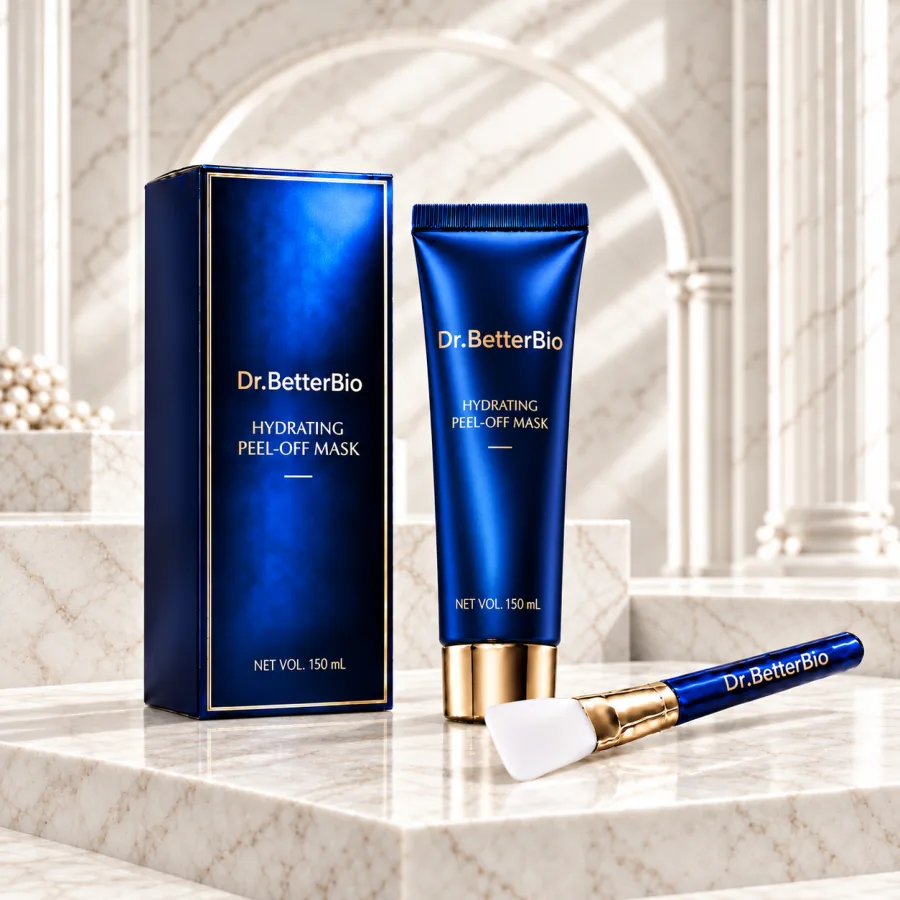
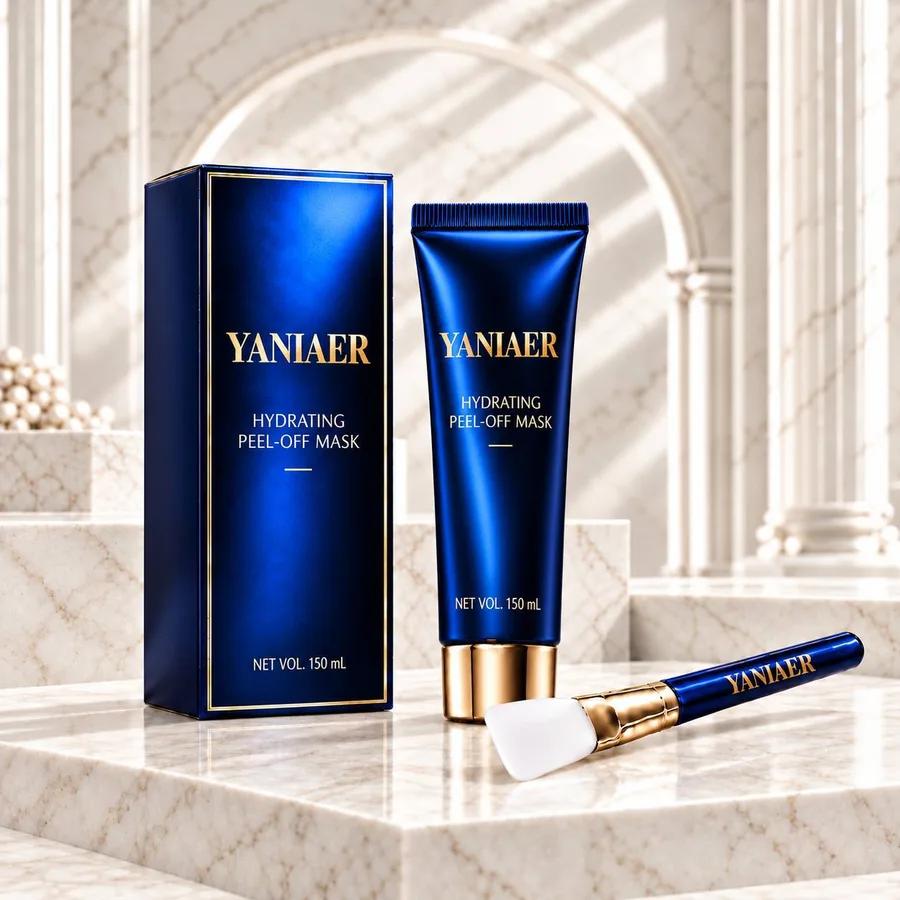
feat: rebrand site to YANIAER
Replace Dr.BetterBio branding with YANIAER, swap in the new product
photography, update the catalogue to the three-product line (25-sheet
mask, 60-patch eye patches at USD 20, peel-off mask) and drop the
Face Cream, Cleanser and Serum listings.

diff --git a/index.html b/index.html
@@ -3,10 +3,10 @@
 <head>
   <meta charset="utf-8">
   <meta name="viewport" content="width=device-width, initial-scale=1">
-  <title>Skincare Collection | Dr.BetterBio</title>
-  <meta name="description" content="Dr.BetterBio is Hong Kong-born skincare with an international outlook — sheet masks, eye patches, peel-off masks and more, crafted with care in every detail.">
-  <meta property="og:title" content="Skincare Collection | Dr.BetterBio">
-  <meta property="og:description" content="Hong Kong-born skincare. Quality in every detail, modern beauty for everyday rituals.">
+  <title>Luxury Skincare Collection | YANIAER</title>
+  <meta name="description" content="YANIAER brings Japanese clinic-grade luxury skincare home — crystal sheet masks, golden firming eye patches and a gentle peel-off mask for anti-ageing, brightening and clarifying care.">
+  <meta property="og:title" content="Luxury Skincare Collection | YANIAER">
+  <meta property="og:description" content="Crystal-infused care, luxuriously youthful. Japanese clinic-grade rituals, made for home.">
   <meta property="og:type" content="website">
   <meta property="og:image" content="assets/img/01-facial-sheet-mask-detail.webp">
   <link rel="stylesheet" href="assets/css/style.css">
@@ -32,7 +32,7 @@
           <svg width="20" height="20" viewBox="0 0 24 24" aria-hidden="true"><circle cx="10.5" cy="10.5" r="6.5" stroke="currentColor" stroke-width="1.6" fill="none"/><path d="m15.5 15.5 5 5" stroke="currentColor" stroke-width="1.6"/></svg>
         </button>
       </div>
-      <a class="wordmark" href="#top" aria-label="Dr.BetterBio home">Dr.<span>Better</span>Bio</a>
+      <a class="wordmark" href="#top" aria-label="YANIAER home">YANIAER</a>
       <div class="site-header__right">
         <span class="region">English · USD</span>
         <button class="icon-btn" type="button" aria-label="Account">
@@ -48,26 +48,23 @@
       <a href="#main" class="is-strong" data-nav-category="All" aria-current="page">Shop All</a>
       <a href="#main" data-nav-category="Masks">Masks</a>
       <a href="#main" data-nav-category="Eye Care">Eye Care</a>
-      <a href="#main" data-nav-category="Moisturizers">Moisturizers</a>
-      <a href="#main" data-nav-category="Cleansers">Cleansers</a>
-      <a href="#main" data-nav-category="Serums">Serums</a>
       <a href="#story" class="is-accent">Our Story</a>
       <a href="#faq">FAQ</a>
     </nav>
   </header>
 
   <div class="promo-bar" role="note">
-    Hong Kong-born skincare · Face Cream, Gentle Facial Cleanser &amp; Facial Serum — coming soon
+    Japanese clinic-grade luxury skincare · Crystal-infused. Luxuriously youthful.
   </div>
 
   <section class="hero" aria-labelledby="hero-title">
     <div class="hero__media">
-      <img src="assets/img/01-facial-sheet-mask-detail.webp" alt="Dr.BetterBio Facial Sheet Mask box and sachets on marble" width="900" height="900">
+      <img src="assets/img/01-facial-sheet-mask-detail.webp" alt="YANIAER Facial Sheet Mask box, sachets and crystal sheet on marble" width="900" height="900">
     </div>
     <div class="hero__copy">
-      <p class="eyebrow">Dr.BetterBio · Hong Kong</p>
-      <h1 id="hero-title">Quality in every detail.</h1>
-      <p>Modern beauty, made for everyday rituals. Discover our signature masks and eye care, wrapped in sapphire and champagne gold.</p>
+      <p class="eyebrow">YANIAER · Clinic-grade luxury</p>
+      <h1 id="hero-title">Crystal-infused. Luxuriously youthful.</h1>
+      <p>The anti-ageing, brightening and clarifying care of the Japanese treatment salon, reimagined for home. Discover our signature masks and eye care, wrapped in sapphire and champagne gold.</p>
       <a class="btn btn--navy" href="#main">Shop the collection</a>
     </div>
   </section>
@@ -76,7 +73,7 @@
     <div class="routine-cta__inner">
       <div>
         <p class="eyebrow">Not sure where to start?</p>
-        <p class="routine-cta__text">Try the mask ritual — Facial Sheet Mask, Eye Patches and Hydrating Peel-Off Mask.</p>
+        <p class="routine-cta__text">Try the full ritual — clarify with the Hydrating Peel-Off Mask, then treat with the Facial Sheet Mask and Eye Patches.</p>
       </div>
       <a class="btn btn--navy" href="#main" data-nav-category="Masks">Shop masks</a>
     </div>
@@ -120,23 +117,23 @@
 
     <section class="collection-info" aria-labelledby="collection-title">
       <div class="intro-box">
-        <h2 id="collection-title">Dr.BetterBio Skincare</h2>
-        <p class="intro-box__sub">Hong Kong-born skincare with an international outlook.</p>
-        <p>We explore the many ways people care for their skin, and answer with products made with attention to quality and detail — bringing modern aesthetics into everyday care for a refined, joyful experience for your skin and your day.</p>
+        <h2 id="collection-title">YANIAER Skincare</h2>
+        <p class="intro-box__sub">Japanese clinic-grade luxury, made for home.</p>
+        <p>YANIAER carries forward the aesthetics of Japanese clinic-grade luxury care. We hold ourselves to high-end skincare standards, select skin-friendly active extracts, and pair them with dedicated mask materials and custom formulations — turning treatments once reserved for the salon into a luxurious experience you can enjoy at home.</p>
       </div>
 
       <div class="category-cards">
         <article class="category-card">
           <h3>Mask Rituals</h3>
-          <p>Facial Sheet Mask and Hydrating Peel-Off Mask — two ways to pause, treat and refresh.</p>
+          <p>Facial Sheet Mask to brighten and firm, Hydrating Peel-Off Mask to clarify pores.</p>
         </article>
         <article class="category-card">
           <h3>Eye Care</h3>
-          <p>Golden Eye Patches for a quick under-eye refresh, 40 patches per jar.</p>
+          <p>Golden firming Eye Patches for fine lines and dullness around the eyes, 60 patches per jar.</p>
         </article>
         <article class="category-card">
-          <h3>Daily Essentials</h3>
-          <p>Face Cream, Gentle Facial Cleanser and Facial Serum — arriving soon to complete the routine.</p>
+          <h3>Clinic-Grade at Home</h3>
+          <p>Dedicated mask materials and custom formulations bring salon-level care into your own ritual.</p>
         </article>
         <article class="category-card">
           <h3>Signature Design</h3>
@@ -147,24 +144,20 @@
       <div class="faq" id="faq">
         <h2>Frequently Asked Questions</h2>
         <details>
-          <summary>Which products are available now?</summary>
-          <p>Facial Sheet Mask, Eye Patches and Hydrating Peel-Off Mask are available to order today. Face Cream, Gentle Facial Cleanser and Facial Serum are coming soon.</p>
+          <summary>Which products are available?</summary>
+          <p>Facial Sheet Mask (25 sheets), Eye Patches (60 patches) and Hydrating Peel-Off Mask (150 mL) are all available to order today.</p>
         </details>
         <details>
           <summary>How do I use the Facial Sheet Mask?</summary>
-          <p>After cleansing, unfold the sheet and smooth it over your face. Relax for 10–15 minutes, remove, then gently pat any remaining essence into your skin.</p>
+          <p>After cleansing, unfold the crystal sheet and smooth it over your face so it sits closely against the skin. Leave on for 15–20 minutes, remove, then gently pat in any remaining essence. Each sheet is for single use.</p>
         </details>
         <details>
           <summary>How do I use the Hydrating Peel-Off Mask?</summary>
-          <p>Apply an even layer to clean, dry skin with a mask brush, avoiding the eyes, brows and lips. Once it has set, peel it away from the edges and rinse off any residue.</p>
+          <p>Apply an even layer to clean, dry skin, avoiding the eyes, brows and lips. Wait for it to set into a film, then gently peel it away to lift blackheads and dull surface build-up. Follow with the rest of your routine — skin is ready to absorb it.</p>
         </details>
         <details>
           <summary>How do I use the Eye Patches?</summary>
-          <p>Place one patch under each eye on clean skin, leave on for 15–20 minutes, then remove. Ideal in the morning or before an evening out.</p>
-        </details>
-        <details>
-          <summary>When will the new products launch?</summary>
-          <p>Face Cream, Gentle Facial Cleanser and Facial Serum are on their way. Sign up to our newsletter below to be the first to know.</p>
+          <p>Take one patch for each eye from the jar and place it on clean skin around the eye area. Use daily as part of your routine to help smooth fine lines and keep the eye area looking firm and youthful.</p>
         </details>
         <details>
           <summary>Are the products suitable for sensitive skin?</summary>
@@ -173,21 +166,21 @@
       </div>
 
       <div class="trust-box">
-        <p><strong>Born in Hong Kong:</strong> a skincare brand shaped by a city that sits between East and West.</p>
-        <p><strong>Quality in every detail:</strong> from formula to finish, every product is made with care.</p>
-        <p><strong>Modern beauty, everyday rituals:</strong> design that makes daily care feel refined and joyful.</p>
+        <p><strong>Japanese clinic-grade aesthetics:</strong> a luxury care philosophy shaped by the treatment salon.</p>
+        <p><strong>Skin-friendly active extracts:</strong> carefully selected and held to high-end skincare standards.</p>
+        <p><strong>Luxury, made for home:</strong> anti-ageing, brightening and clarifying care in your own ritual.</p>
       </div>
     </section>
 
     <section class="story" id="story" aria-labelledby="story-title">
       <div class="story__media">
-        <img src="assets/img/04-face-cream-detail.webp" alt="Dr.BetterBio Face Cream jar and box in a marble colonnade" width="900" height="900" loading="lazy" decoding="async">
+        <img src="assets/img/02-eye-patches-detail.webp" alt="YANIAER Eye Patches jar and box with golden patches in a marble colonnade" width="900" height="900" loading="lazy" decoding="async">
       </div>
       <div class="story__copy">
         <p class="eyebrow">Our Story</p>
-        <h2 id="story-title">From Hong Kong, with an international outlook</h2>
-        <p>Dr.BetterBio was founded in Hong Kong as a beauty and skincare brand that looks outward — exploring the diverse needs of skin around the world.</p>
-        <p>We believe care is in the details. That is why we focus on product quality and finish, and why we bring modern aesthetics into everyday rituals: so that looking after your skin feels refined, and a little joyful, every single day.</p>
+        <h2 id="story-title">Clinic-grade luxury, brought home</h2>
+        <p>YANIAER is built on the aesthetics of Japanese clinic-grade luxury care. Our belief is simple: crystal-infused care, for luxuriously youthful skin.</p>
+        <p>We select skin-friendly active extracts and pair them with dedicated mask materials and custom formulations, so that the anti-ageing, brightening and clarifying treatments of the salon become a luxurious ritual you can enjoy at home — for anyone who seeks a higher standard of skincare.</p>
       </div>
     </section>
 
@@ -196,17 +189,17 @@
       <div class="reviews__track">
         <figure class="review">
           <div class="stars" aria-label="5 out of 5 stars">★★★★★</div>
-          <blockquote>The sheet mask is so generously soaked — my skin looks fresh and dewy afterwards.</blockquote>
+          <blockquote>The crystal sheet sits so closely on my face — my skin looks brighter straight away.</blockquote>
           <figcaption>Facial Sheet Mask</figcaption>
         </figure>
         <figure class="review">
           <div class="stars" aria-label="5 out of 5 stars">★★★★★</div>
-          <blockquote>My five-minute morning reset. The golden patches feel cooling and stay put.</blockquote>
+          <blockquote>Part of my daily routine now. The golden patches feel lovely and stay put.</blockquote>
           <figcaption>Eye Patches</figcaption>
         </figure>
         <figure class="review">
           <div class="stars" aria-label="5 out of 5 stars">★★★★★</div>
-          <blockquote>Peeling it off is oddly satisfying, and my skin feels soft and smooth after.</blockquote>
+          <blockquote>Peeling it off is oddly satisfying, and my skin feels so clear and fresh after.</blockquote>
           <figcaption>Hydrating Peel-Off Mask</figcaption>
         </figure>
         <figure class="review">
@@ -221,8 +214,8 @@
   <footer class="site-footer" id="contact">
     <div class="site-footer__top">
       <div class="footer-brand">
-        <a class="wordmark wordmark--light" href="#top">Dr.<span>Better</span>Bio</a>
-        <p>Hong Kong-born skincare. Quality in every detail.</p>
+        <a class="wordmark wordmark--light" href="#top">YANIAER</a>
+        <p>Japanese clinic-grade luxury skincare. Crystal-infused, luxuriously youthful.</p>
         <form class="newsletter" data-newsletter novalidate>
           <label for="nl-email">Be the first to know about new launches</label>
           <div class="newsletter__row">
@@ -246,8 +239,7 @@
       </nav>
     </div>
     <div class="site-footer__bottom">
-      <p class="legal">© <span data-year></span> Dr.BetterBio. All rights reserved.</p>
-      <p class="legal">Hong Kong</p>
+      <p class="legal">© <span data-year></span> YANIAER. All rights reserved.</p>
     </div>
   </footer>
 

diff --git a/assets/css/style.css b/assets/css/style.css
@@ -79,11 +79,10 @@ button, input, select { font: inherit; color: inherit; }
 }
 
 .wordmark {
-  font-family: var(--sans); font-size: 28px; letter-spacing: -.3px;
+  font-family: var(--serif); font-size: 26px; letter-spacing: .12em; text-transform: uppercase;
   text-decoration: none; color: var(--navy); white-space: nowrap;
 }
-.wordmark span { color: var(--gold); }
-.wordmark--light { color: var(--white); }
+.wordmark--light { color: var(--gold-soft); }
 
 .region {
   display: none; background: none; border: 0; color: var(--muted);
@@ -370,8 +369,8 @@ main { max-width: var(--max); margin: 0 auto; padding: 0 var(--gutter); }
 @media (min-width: 1024px) {
   :root { --gutter: 48px; }
   .site-header__bar { padding-top: 28px; padding-bottom: 24px; }
-  .wordmark { font-size: 40px; }
-  .wordmark--light { font-size: 32px; }
+  .wordmark { font-size: 36px; }
+  .wordmark--light { font-size: 30px; }
   .menu-toggle { display: none; }
   .region { display: inline-flex; }
   .primary-nav {

diff --git a/README.md b/README.md
@@ -1,6 +1,6 @@
-# Dr.BetterBio — Skincare Collection
+# YANIAER — Skincare Collection
 
-Static product collection page for Dr.BetterBio, Hong Kong-born skincare.
+Static product collection page for YANIAER, Japanese clinic-grade luxury skincare.
 
 - `index.html` — page markup (hero, collection grid, brand intro, FAQ, story, reviews)
 - `assets/css/style.css` — styles (mobile-first, 2 / 3-column grid)
@@ -12,15 +12,12 @@ Static product collection page for Dr.BetterBio, Hong Kong-born skincare.
 
 | No. | Product | Size | Price |
 |---|---|---|---|
-| 01 | Facial Sheet Mask | 10 sheets | USD 25.00 |
-| 02 | Eye Patches | 40 patches | USD 15.00 |
+| 01 | Facial Sheet Mask | 25 sheets | USD 25.00 |
+| 02 | Eye Patches | 60 patches | USD 20.00 |
 | 03 | Hydrating Peel-Off Mask | 150 mL | USD 30.00 |
-| 04 | Face Cream | 40 g | Coming Soon |
-| 05 | Gentle Facial Cleanser | 120 g | Coming Soon |
-| 06 | Facial Serum | 60 mL | Coming Soon |
 
-Products with `"status": "coming-soon"` and `"price": null` hide the price and cannot be added to the bag.
-To launch one, set `status` to `"available"`, give it a `price`, and clear or change its `badge`.
+A product with `"status": "coming-soon"` and `"price": null` hides its price and cannot be added to the bag.
+To launch it, set `status` to `"available"`, give it a `price`, and clear or change its `badge`.
 
 Run locally:
 
